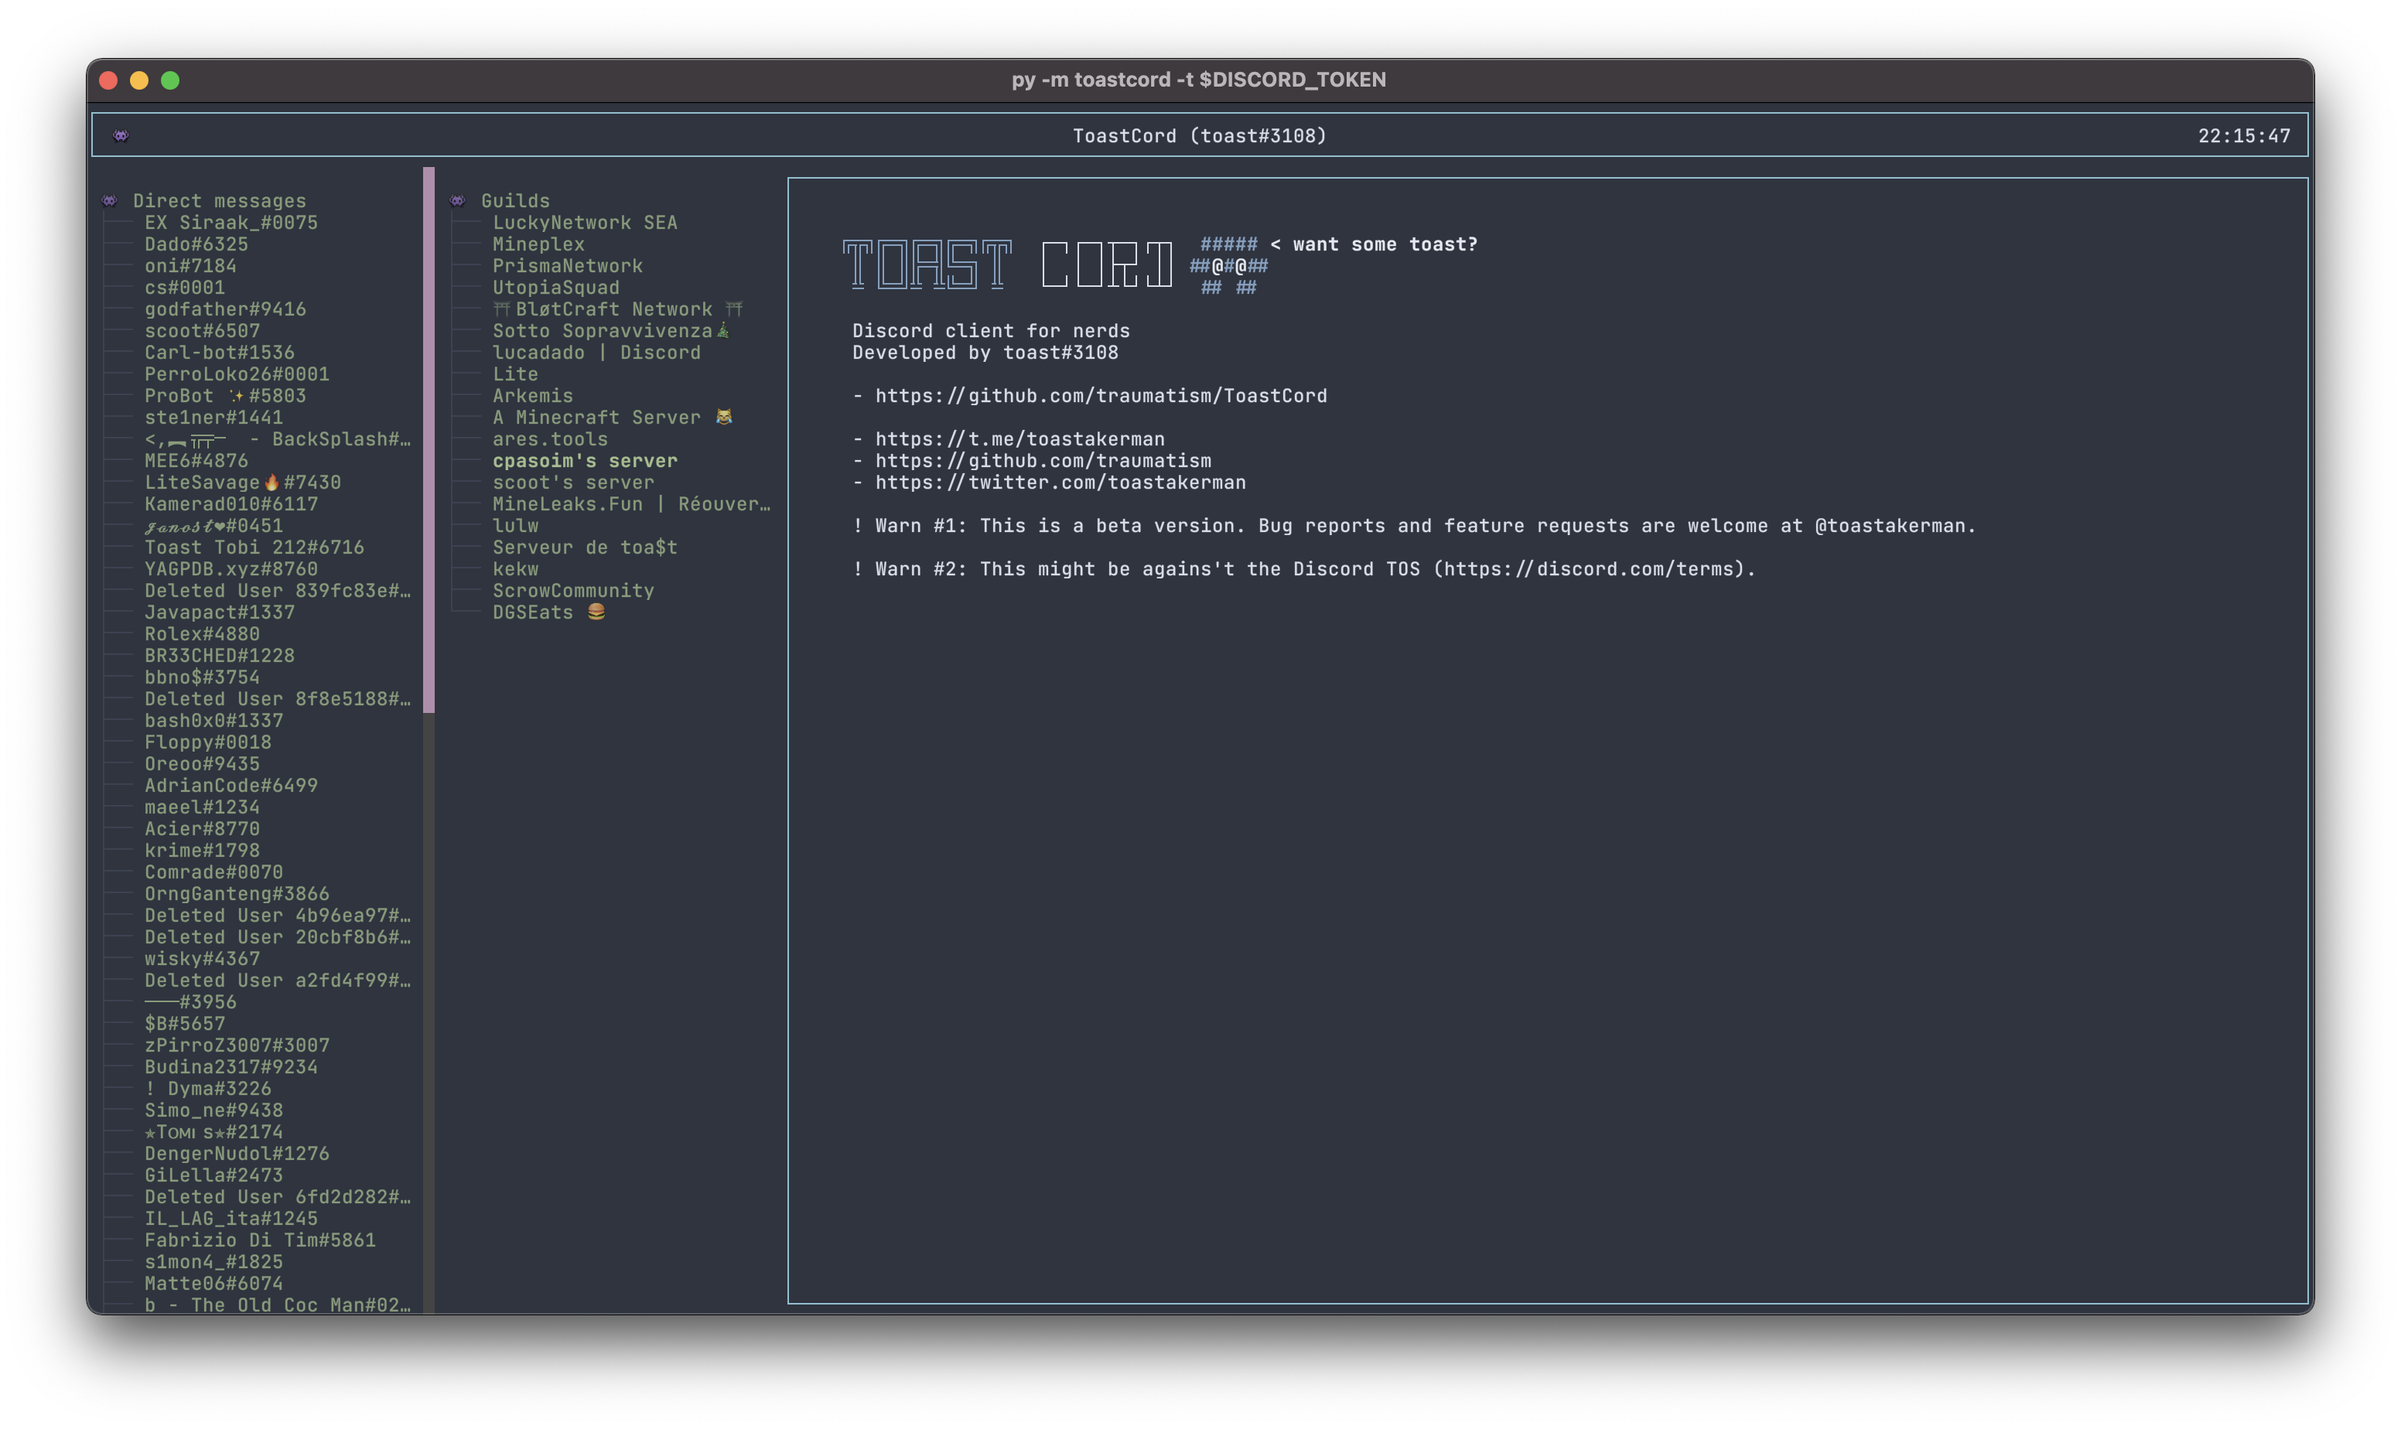
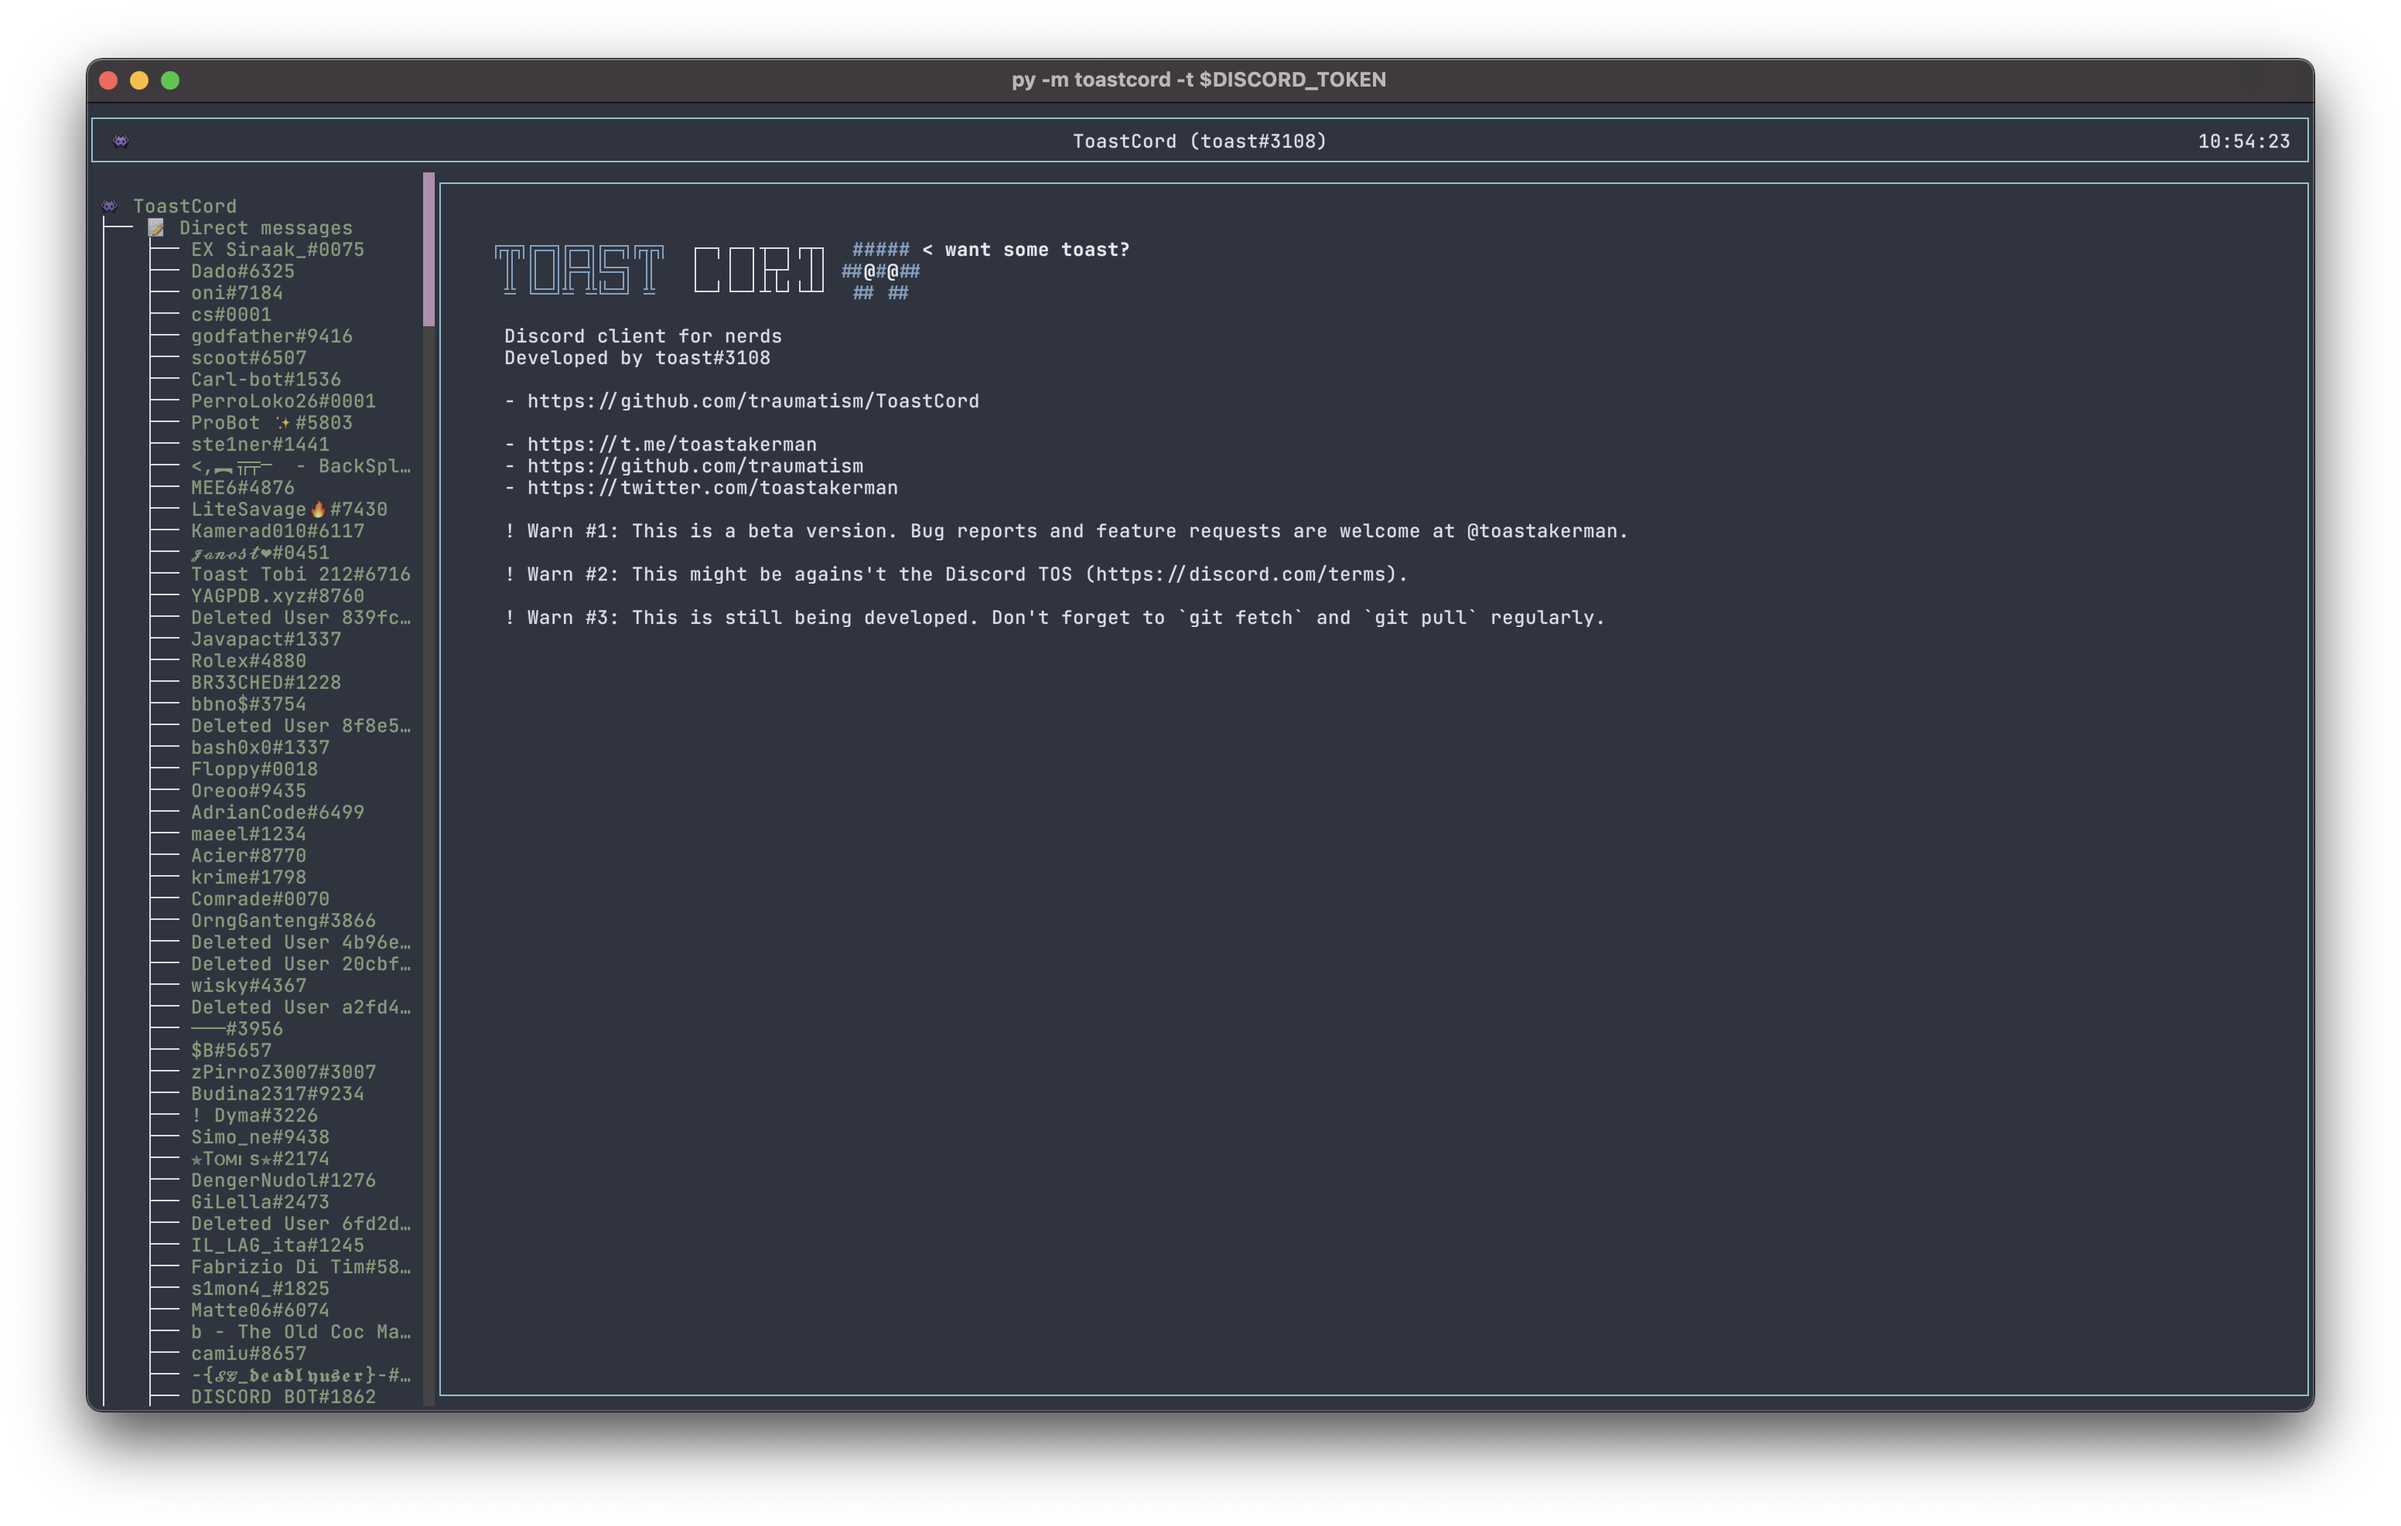
update

Changed region(s): [[0.0312, 0.0308, 0.9688, 0.9253], [0.5, 0.1542, 0.625, 0.2159]]

diff --git a/toastcord/widgets/sidebar.py b/toastcord/widgets/sidebar.py
@@ -1,0 +1,108 @@
+from functools import lru_cache
+
+from textual.widgets import (
+    TreeClick, TreeControl, TreeNode
+)
+
+from textual.reactive import Reactive
+
+from rich.text import Text
+from rich.console import RenderableType
+
+from toastcord import client
+from toastcord.api.types.guild import Guild
+
+from .click import Click
+
+
+class Sidebar(TreeControl):
+
+    def __init__(self, name: str = None) -> None:
+        super().__init__(
+            "👾 ToastCord", name=name, data=None
+        )
+
+    has_focus: Reactive[bool] = Reactive(False)
+
+    def on_focus(self) -> None:
+        self.has_focus = True
+
+    def on_blur(self) -> None:
+        self.has_focus = False
+
+    @lru_cache(maxsize=1024 * 32)
+    def render_tree_label(
+        self,
+        node: TreeNode,
+        is_cursor: bool,
+        is_hover: bool,
+        has_focus: bool,
+    ) -> RenderableType:
+
+        meta = {
+            "@click": f"click_label({node.id})",
+            "tree_node": node.id,
+            "cursor": node.is_cursor,
+        }
+
+        label = Text(node.label) if isinstance(node.label, str) else node.label
+        icon = ""
+
+        if is_hover:
+            label.stylize("bold green")
+        else:
+            label.stylize("dim green")
+
+        if is_cursor and has_focus:
+            label.stylize("reverse")
+
+        icon_label = Text(icon, no_wrap=True, overflow="ellipsis") + label
+        icon_label.apply_meta(meta)
+
+        return icon_label
+
+    def render_node(self, node: TreeNode) -> RenderableType:
+        return self.render_tree_label(
+            node,
+            node.is_cursor,
+            node.id == self.hover_node,
+            self.has_focus,
+        )
+
+    async def on_mount(self) -> None:
+        await self.root.add("📝 Direct messages ", data="Direct messages")
+        await self.root.add("📝 Guilds", data="Guilds")
+
+        for direct_message in client.channels:
+            await self.root.children[0].add(
+                str(direct_message.recipient),
+                data=direct_message
+            )
+
+        for guild in client.guilds:
+            await self.root.children[1].add(
+                str(guild.name),
+                data=guild
+            )
+
+        await self.root.expand()
+        await self.root.children[0].expand()
+        await self.root.children[1].expand()
+
+        self.refresh(layout=True)
+
+    async def handle_tree_click(self, message: TreeClick) -> None:
+
+        if isinstance(message.node.data, Guild):
+            await message.node.data.load_channels()
+
+            ids = (node.data.id for node in message.node.children)
+
+            for channel in message.node.data.channels:
+                if channel.id not in ids:
+                    await message.node.add(str(channel.name), channel)
+
+            if message.node.expanded is False:
+                await message.node.expand()
+
+        await self.emit(Click(self, message.node.data))
